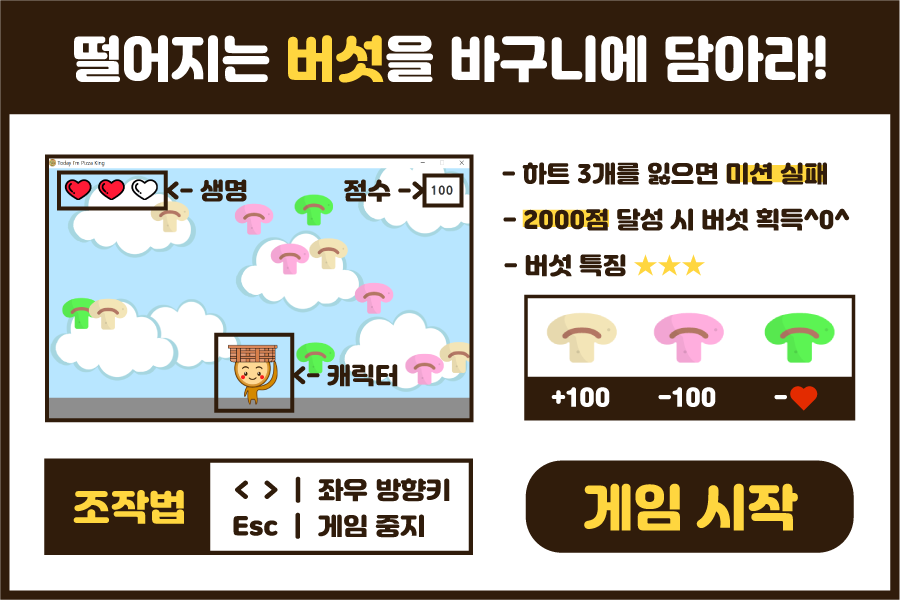
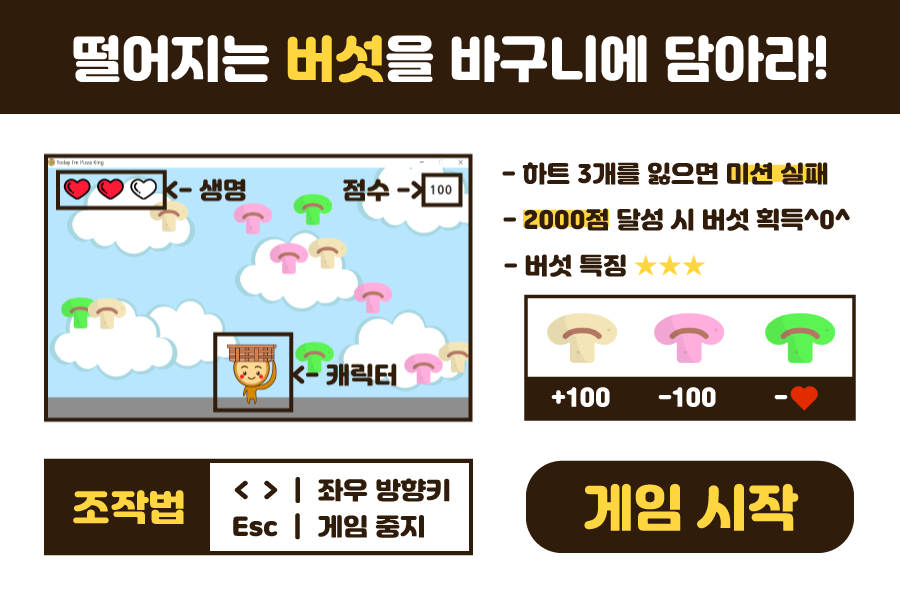
전반적인 패널 위치 수정 및 이미지 교체

diff --git a/2206_2207/TodayIamPizzaKing2/src/mushroom/MushroomEnd.java b/2206_2207/TodayIamPizzaKing2/src/mushroom/MushroomEnd.java
@@ -15,7 +15,7 @@ import code.Game;
 
 class MushroomEnd extends JDialog {
 	
-	private ImageIcon winImg = new ImageIcon("images/stage/winImg.png");
+	private ImageIcon winImg = new ImageIcon("images/mushroom/mushroomWin.png");
 	private ImageIcon loseImg = new ImageIcon("images/stage/loseImg.png");
 	JPanel jp;
 	private JButton ok, replay;
@@ -23,13 +23,13 @@ class MushroomEnd extends JDialog {
 	
 	public MushroomEnd(Game game) {
 		
-		setSize(815, 545);
+		setSize(800, 530);
 		setLocationRelativeTo(null);	
 		setModal(true);
+		setResizable(false);
 		setDefaultCloseOperation(WindowConstants.DO_NOTHING_ON_CLOSE);
 	
 		jp = new JPanel();
-		
 		jp.setLayout(null);
 		jp.setBounds(0,0, 800, 500);
 		
@@ -63,8 +63,8 @@ class MushroomEnd extends JDialog {
 		});
 		
 		
-		ok.setBorderPainted(false);
-		ok.setContentAreaFilled(false);
+		//ok.setBorderPainted(false);
+		//ok.setContentAreaFilled(false);
 		ok.setVisible(false);
 		
 		replay.setBorderPainted(false);
@@ -78,7 +78,7 @@ class MushroomEnd extends JDialog {
 		
 		flagBack.setIcon(winImg);
 		
-		ok.setBounds(235, 306, 330, 110);
+		ok.setBounds(394, 362, 223, 79);
 		ok.setVisible(true);
 	
 		jp.setVisible(true);

diff --git a/2206_2207/TodayIamPizzaKing2/src/pepperoni/PepperoniExplain.java b/2206_2207/TodayIamPizzaKing2/src/pepperoni/PepperoniExplain.java
@@ -17,10 +17,7 @@ import code.Game;
 public class PepperoniExplain extends JDialog{
 
 	Game game;
-	
 	private ImageIcon explainImg = new ImageIcon("images/pepperoni/pepperoniExplain.png");
-	
-	
 	public JButton pepGameBtn = new JButton();
 	JPanel jp;
 	JLabel back;
@@ -28,8 +25,8 @@ public class PepperoniExplain extends JDialog{
 	
 	public PepperoniExplain(Game game) {
 		
-		setTitle("Paprika Stage Explain");
-		setSize(900, 645);
+		setTitle("Pepperoni Stage Explain");
+		setSize(900, 630);
 		setLocationRelativeTo(null);	
 		setModal(true);
 		setResizable(false);

diff --git a/2206_2207/TodayIamPizzaKing2/src/mushroom/MushroomPanel.java b/2206_2207/TodayIamPizzaKing2/src/mushroom/MushroomPanel.java
@@ -219,7 +219,7 @@ public class MushroomPanel extends JPanel {
 	public void checkScore() {
 		
 		
-		if(heartCnt ==0) {
+		if(heartCnt == 0) {
 			pizzaMan.stop();
 			for (FriendMush f_Mush : f_MushList) {
 				f_Mush.setStop(true);
@@ -232,7 +232,7 @@ public class MushroomPanel extends JPanel {
 			}
 			mushroomEnd.Fail();
 		}
-		if(score == 300) {
+		if(score == 200) {
 			
 			pizzaMan.stop();
 			for (FriendMush f_Mush : f_MushList) {

diff --git a/2206_2207/TodayIamPizzaKing2/src/sauce/SauceExplain.java b/2206_2207/TodayIamPizzaKing2/src/sauce/SauceExplain.java
@@ -20,16 +20,14 @@ public class SauceExplain extends JDialog{
 	
 	private ImageIcon explainImg = new ImageIcon("images/sauce/sauceExplain.png");
 	
-	
 	public JButton sauceGameBtn = new JButton();
 	JPanel jp;
 	JLabel back;
 	
-	
 	public SauceExplain(Game game) {
 		
 		setTitle("Sauce Stage Explain");
-		setSize(900, 645);
+		setSize(900, 630);
 		setLocationRelativeTo(null);	
 		setModal(true);
 		setResizable(false);

diff --git a/2206_2207/TodayIamPizzaKing2/src/paprika/PaprikaPanel.java b/2206_2207/TodayIamPizzaKing2/src/paprika/PaprikaPanel.java
@@ -249,11 +249,8 @@ public class PaprikaPanel extends JPanel{
 			
 			switch(keyCode) {
 				case KeyEvent.VK_SPACE:
-<<<<<<< HEAD
 					Music dropsound = new Music("knife.mp3", false);
-=======
-					Music dropsound = new Music("pepperonidrop.mp3", false);
->>>>>>> a37e4cf1f2f6762fa31e4e81e819825d2d339661
+
 					dropsound.start();
 					crashCheck();
 					break;

diff --git a/2206_2207/TodayIamPizzaKing2/src/onion/OnionPanel.java b/2206_2207/TodayIamPizzaKing2/src/onion/OnionPanel.java
@@ -75,8 +75,6 @@ class onionLabel extends JLabel {
 
 
 public class OnionPanel extends JPanel{
-
-	//private static final Object DISABLE_CLICKER = null;
 	
 	private Image backgroundImage = new ImageIcon("images/onion/onionBack.png").getImage();
 	ImageIcon fullHeart = new ImageIcon("images/mushroom/fullHeart.png");

diff --git a/2206_2207/TodayIamPizzaKing2/src/onion/OnionExplain.java b/2206_2207/TodayIamPizzaKing2/src/onion/OnionExplain.java
@@ -29,9 +29,10 @@ public class OnionExplain extends JDialog{
 	public OnionExplain(Game game) {
 		
 		setTitle("Onion Stage Explain");
-		setSize(900, 645);
+		setSize(900, 630);
 		setLocationRelativeTo(null);	
 		setModal(true);
+		setResizable(false);
 		
 		this.game = game;
 		

diff --git a/2206_2207/TodayIamPizzaKing2/src/mushroom/MushroomExplain.java b/2206_2207/TodayIamPizzaKing2/src/mushroom/MushroomExplain.java
@@ -28,7 +28,7 @@ public class MushroomExplain extends JDialog{
 	
 	public MushroomExplain(Game game) {
 		setTitle("Mushroom Stage Explain");
-		setSize(915, 645);
+		setSize(900, 630);
 		setLocationRelativeTo(null);	
 		setModal(true);
 		setResizable(false);

diff --git a/2206_2207/TodayIamPizzaKing2/src/paprika/PaprikaExplain.java b/2206_2207/TodayIamPizzaKing2/src/paprika/PaprikaExplain.java
@@ -29,7 +29,7 @@ public class PaprikaExplain extends JDialog{
 	public PaprikaExplain(Game game) {
 		
 		setTitle("Paprika Stage Explain");
-		setSize(900, 645);
+		setSize(900, 630);
 		setLocationRelativeTo(null);	
 		setModal(true);
 		setResizable(false);

diff --git a/2206_2207/TodayIamPizzaKing2/src/cheese/CheeseExplain.java b/2206_2207/TodayIamPizzaKing2/src/cheese/CheeseExplain.java
@@ -28,7 +28,7 @@ public class CheeseExplain extends JDialog{
 	
 	public CheeseExplain(Game game) {
 		setTitle("Cheese Stage Explain");
-		setSize(915, 645);
+		setSize(900, 630);
 		setLocationRelativeTo(null);	
 		setModal(true);
 		setResizable(false);

diff --git a/2206_2207/TodayIamPizzaKing2/src/mushroom/FriendMush.java b/2206_2207/TodayIamPizzaKing2/src/mushroom/FriendMush.java
@@ -67,7 +67,7 @@ class FriendMush extends JLabel implements Runnable{
 				check();
 			}
 			try {
-				Thread.sleep(120);
+				Thread.sleep(70);
 			} catch (InterruptedException e) {
 				e.printStackTrace();
 			}

diff --git a/2206_2207/TodayIamPizzaKing2/src/mushroom/HeartMinusMush.java b/2206_2207/TodayIamPizzaKing2/src/mushroom/HeartMinusMush.java
@@ -65,7 +65,7 @@ class HeartMinusMush extends JLabel implements Runnable{
 			}
 			
 			try {
-				Thread.sleep(130);
+				Thread.sleep(70);
 			} catch (InterruptedException e) {
 				e.printStackTrace();
 			}
